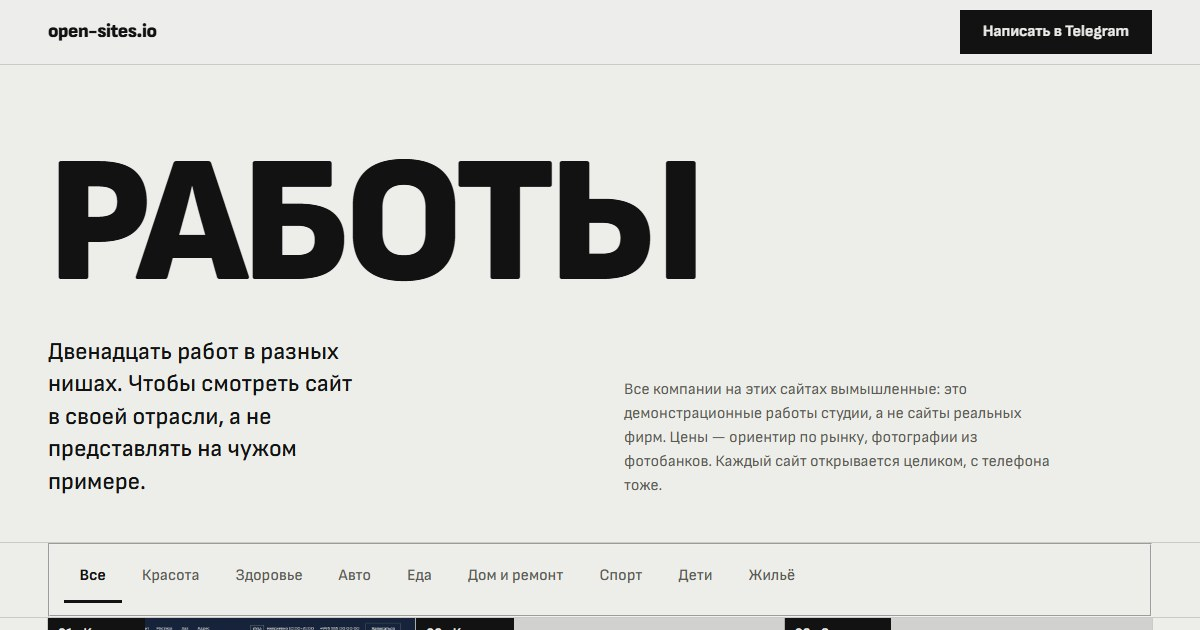
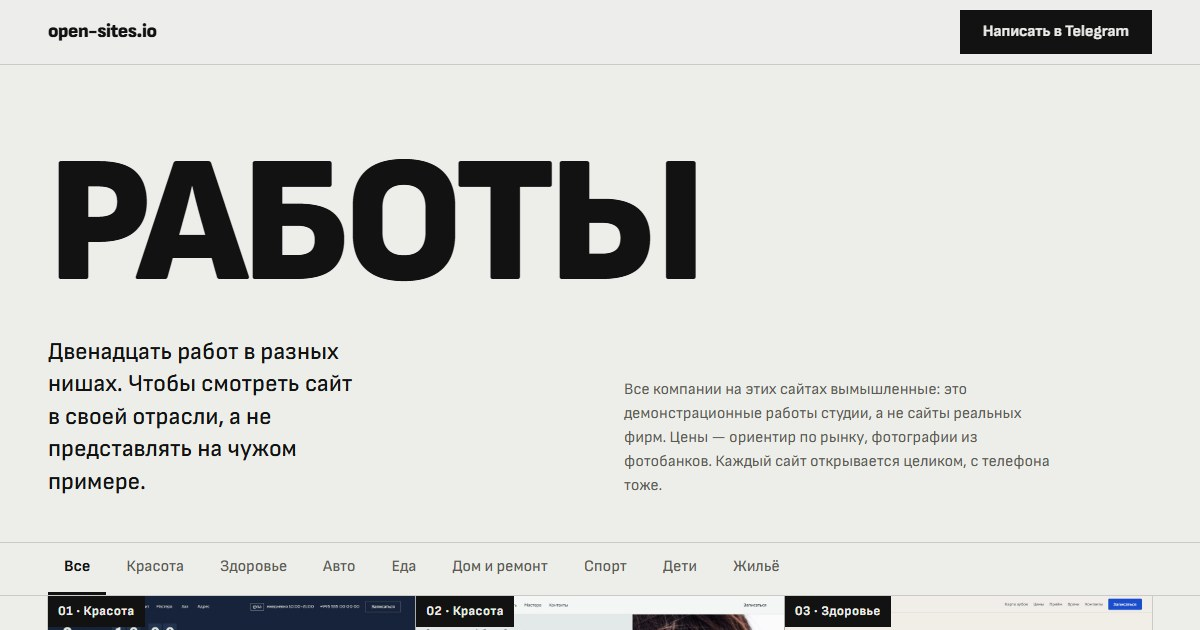
Фикс: лента чипсов больше не растягивает страницу на телефоне

Changed region(s): [[0.0308, 0.8746, 0.9867, 1.0], [0.555, 0.8746, 0.5858, 0.9349], [0.4933, 0.8746, 0.5242, 0.9349]]

diff --git a/index.html b/index.html
@@ -68,7 +68,10 @@ ul{list-style:none;padding:0}
 /* ——— фильтр: чистый CSS, работает без JS ——— */
 .filters{position:sticky;top:64px;z-index:40;background:var(--paper);border-top:1px solid var(--line);
   border-bottom:1px solid var(--line);padding:0 var(--gut)}
-.filters__in{display:flex;gap:4px;overflow-x:auto;scrollbar-width:none;max-width:1680px;margin:0 auto}
+/* min-width:0 обязателен: у fieldset по умолчанию min-width:min-content, из-за чего
+   overflow-x:auto не включается и лента чипсов растягивает страницу вбок на телефоне */
+.filters__in{display:flex;gap:4px;overflow-x:auto;scrollbar-width:none;max-width:1680px;margin:0 auto;
+  min-width:0;border:0;padding:0}
 .filters__in::-webkit-scrollbar{display:none}
 .filters input{position:absolute;opacity:0;width:1px;height:1px}
 .filters label{display:inline-flex;align-items:center;min-height:52px;padding:0 16px;white-space:nowrap;
